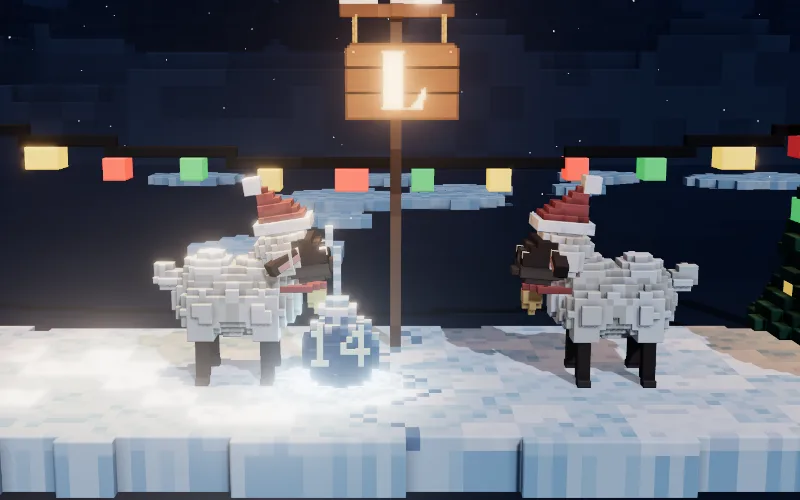
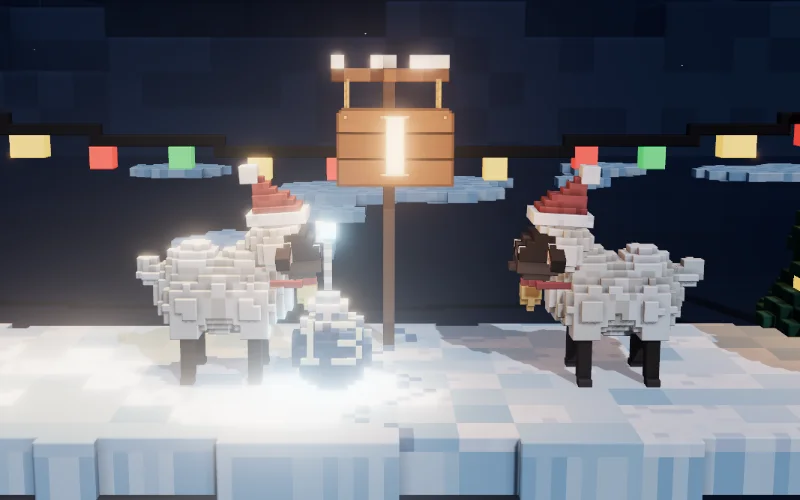
Play chooser pictures re-captured from today's farm and duel (stale since milestones 3 and 7), with a repeatable recipe in the bake manifest
Claude-Session: https://claude.ai/code/session_011o9Mj2AM167Xh2M6L4JoHP

diff --git a/tools/bake/stale.ts b/tools/bake/stale.ts
@@ -426,6 +426,10 @@ const guidePlan = (): Plan => ({
  * of the game's own scenes, taken by hand, 800 x 500. CLAUDE.md, "Real people by default, the Play chooser", is all
  * that is written down about how: "the home tour's sheep-at-the-barn shot" by day, and "the practice duel on the ice
  * at night". Their model is that scene as the scene checker builds it for a computer, and the models that stand in it.
+ * The `capture` text is the recipe, as last taken (2026-11-17, overhaul milestone 12): a production build (npx vite build
+ * --outDir <dir>) served by serve() and opened by home() / duel() of tools/gate/lib/painted.mjs (pinned clock and seed,
+ * reduced motion, ?dpr=1), every page element but the canvas hidden (visibility), the picture cut from a page screenshot,
+ * scaled to 800 x 500 on a page canvas and encoded there with toDataURL('image/webp', 0.85).
  */
 function playPlan(name: 'casual' | 'ranked'): Plan {
   const casual = name === 'casual';
@@ -436,8 +440,8 @@ function playPlan(name: 'casual' | 'ranked'): Plan {
       : 'the practice ice as the scene checker builds it for a computer (scene "duel", fine), with the sheep, its hat and the ice bomb (models animal:sheep, hat, bomb:bomb-ice)',
     checked: 'check:scenes', alpha: false,
     capture: casual
-      ? "the Home tour's shot of the sheep at the barn, by day, 800 x 500 (CLAUDE.md: \"the home tour's sheep-at-the-barn shot\")"
-      : 'the practice duel on the ice at night, both sheep, the bomb and the letter board in the picture, 800 x 500 (CLAUDE.md: "the practice duel on the ice at night")',
+      ? "the Home tour's shot of the sheep at the barn, by day, 800 x 500 (CLAUDE.md: \"the home tour's sheep-at-the-barn shot\"): home(browser, { pov: 6, hour: 'day', extraQuery: { gfx: 'high' }, viewport 1280 x 800 }), so ?pov=6&hour=day&gfx=high&dpr=1 (POV_SHOTS.desktop[6]), no interface, the whole canvas scaled to 800 x 500"
+      : `the practice duel on the ice at night, both sheep, the bomb and the letter board in the picture, 800 x 500 (CLAUDE.md: "the practice duel on the ice at night"): duel(browser, { query: { gfx: 'high' }, viewport 1280 x 800 }), the game's own clock and bot, your turn 2 s in, no interface, the canvas's 1067 x 667 window at (132, 75) scaled to 800 x 500`,
     size: async () => [800, 500],
     mirrors: [['src/skin/ranked/PlayChooser.tsx', ["const ART = (name: 'casual' | 'ranked') => `${import.meta.env.BASE_URL}play/${name}.webp`;"]]],
     scene: casual ? { name: 'farm', models: ['animal:sheep', 'hat'] } : { name: 'duel', models: ['animal:sheep', 'hat', 'bomb:bomb-ice'] },
